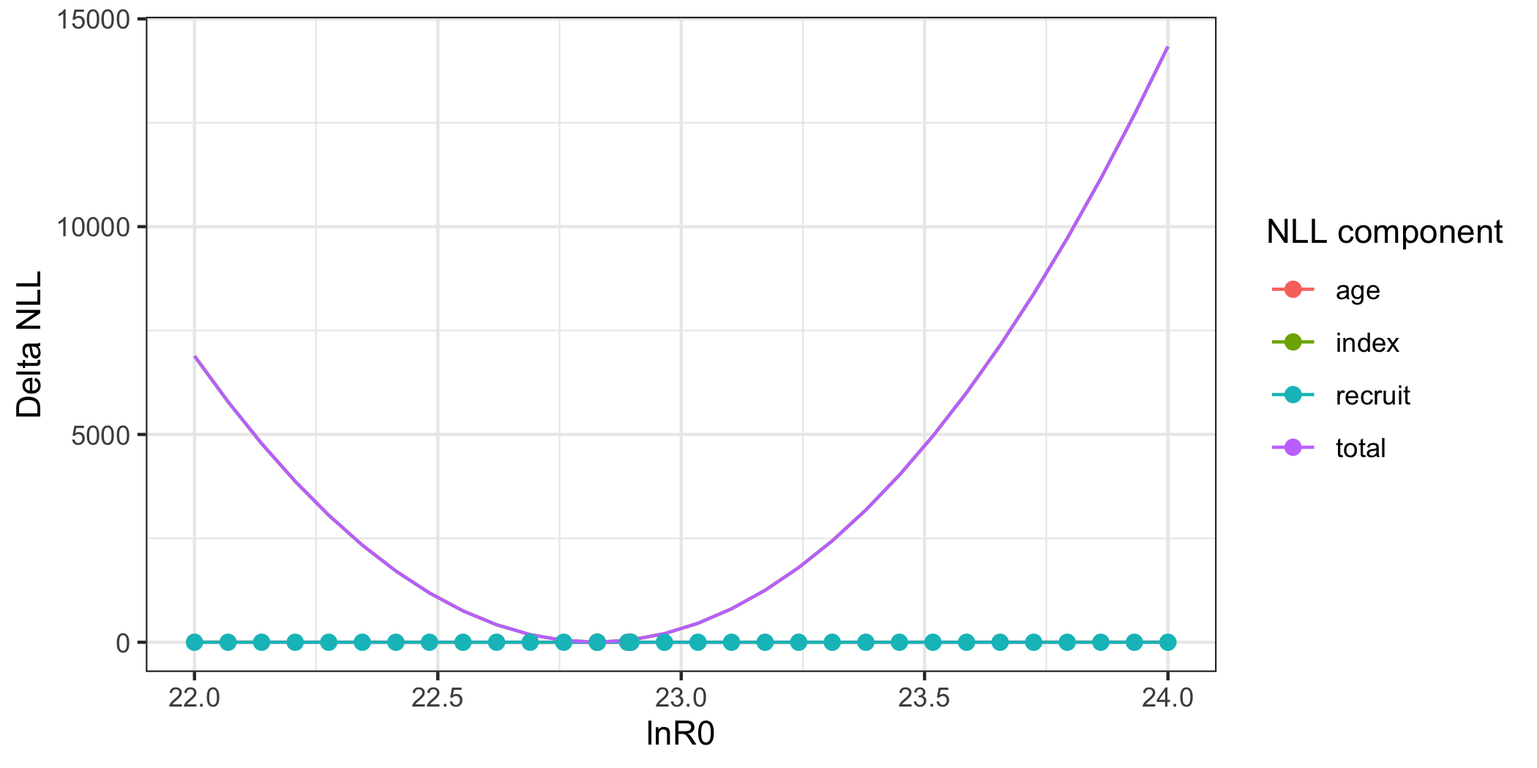
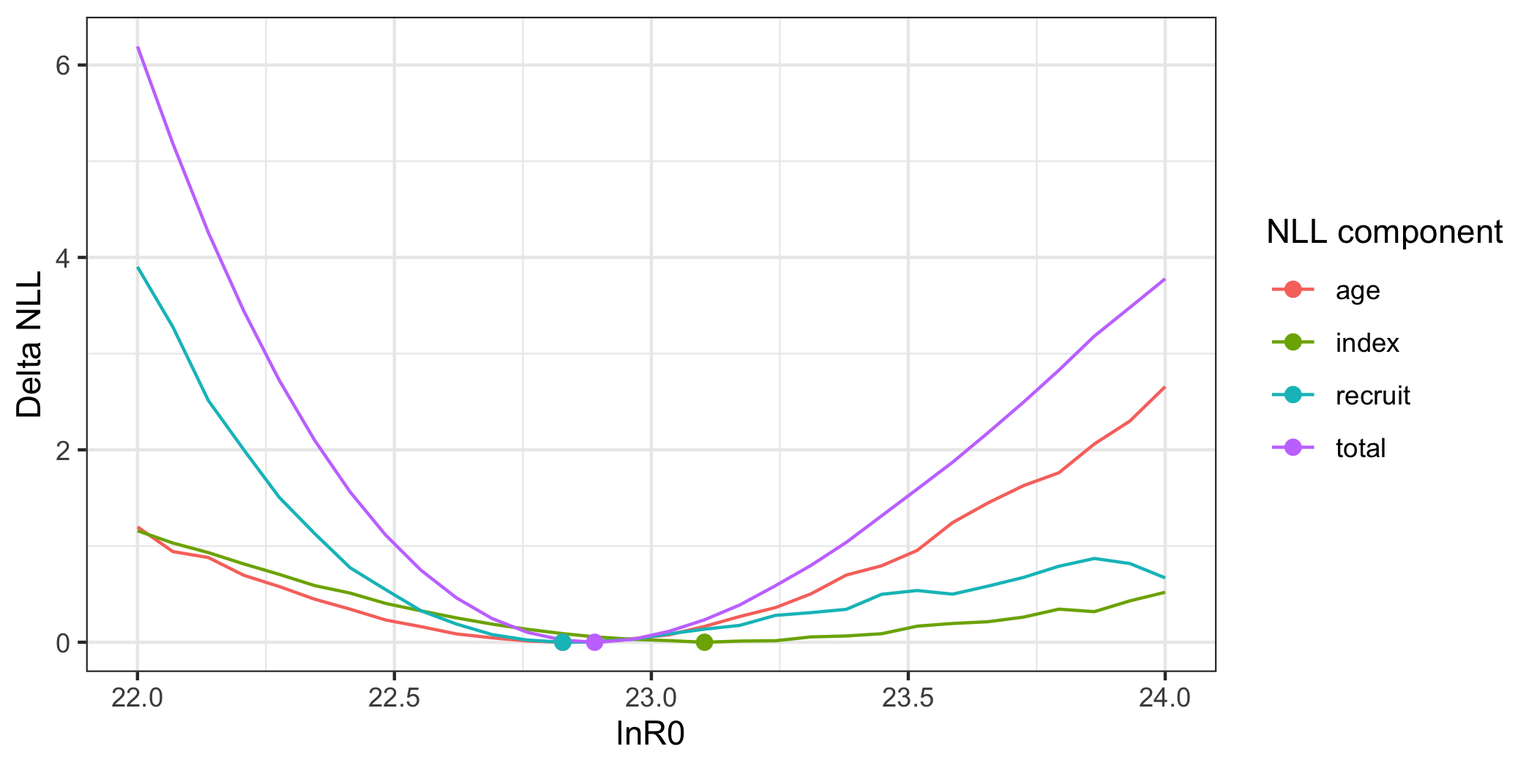
Built site for gh-pages

diff --git a/content/AFSC-GOA-pollock.html b/content/AFSC-GOA-pollock.html
@@ -290,7 +290,7 @@ pre > code.sourceCode > span > a:first-child::before { text-decoration: underlin
 <div class="cell-output cell-output-stdout">
 <pre><code>
 The downloaded binary packages are in
-    /var/folders/2s/h6hvv9ps03xgz_krkkstvq_r0000gn/T//Rtmpr8iFZ4/downloaded_packages</code></pre>
+    /var/folders/2s/h6hvv9ps03xgz_krkkstvq_r0000gn/T//RtmpobgKhk/downloaded_packages</code></pre>
 </div>
 <details class="code-fold">
 <summary>Code</summary>
@@ -302,10 +302,10 @@ The downloaded binary packages are in
 <div class="cell-output cell-output-stdout">
 <pre><code>
 The downloaded binary packages are in
-    /var/folders/2s/h6hvv9ps03xgz_krkkstvq_r0000gn/T//Rtmpr8iFZ4/downloaded_packages</code></pre>
+    /var/folders/2s/h6hvv9ps03xgz_krkkstvq_r0000gn/T//RtmpobgKhk/downloaded_packages</code></pre>
 </div>
 <div class="cell-output cell-output-stdout">
-<pre><code>* checking for file ‘/private/var/folders/2s/h6hvv9ps03xgz_krkkstvq_r0000gn/T/Rtmpr8iFZ4/remotes189179ae5b8e/NOAA-FIMS-FIMS-eca8095/DESCRIPTION’ ... OK
+<pre><code>* checking for file ‘/private/var/folders/2s/h6hvv9ps03xgz_krkkstvq_r0000gn/T/RtmpobgKhk/remotes188c6f12a4f5/NOAA-FIMS-FIMS-eca8095/DESCRIPTION’ ... OK
 * preparing ‘FIMS’:
 * checking DESCRIPTION meta-information ... OK
 * cleaning src
@@ -348,10 +348,10 @@ coda        (NA    -&gt; 0.19-4.1) [CRAN]</code></pre>
 <div class="cell-output cell-output-stdout">
 <pre><code>
 The downloaded binary packages are in
-    /var/folders/2s/h6hvv9ps03xgz_krkkstvq_r0000gn/T//Rtmpr8iFZ4/downloaded_packages</code></pre>
+    /var/folders/2s/h6hvv9ps03xgz_krkkstvq_r0000gn/T//RtmpobgKhk/downloaded_packages</code></pre>
 </div>
 <div class="cell-output cell-output-stdout">
-<pre><code>* checking for file ‘/private/var/folders/2s/h6hvv9ps03xgz_krkkstvq_r0000gn/T/Rtmpr8iFZ4/remotes1891705c3c5c/r4ss-r4ss-b2b4418/DESCRIPTION’ ... OK
+<pre><code>* checking for file ‘/private/var/folders/2s/h6hvv9ps03xgz_krkkstvq_r0000gn/T/RtmpobgKhk/remotes188c70c642fa/r4ss-r4ss-b2b4418/DESCRIPTION’ ... OK
 * preparing ‘r4ss’:
 * checking DESCRIPTION meta-information ... OK
 * checking for LF line-endings in source and make files and shell scripts
@@ -568,80 +568,67 @@ The downloaded binary packages are in
 <details class="code-fold">
 <summary>Code</summary>
 <div class="sourceCode cell-code" id="cb17"><pre class="sourceCode r code-with-copy"><code class="sourceCode r"><span id="cb17-1"><a href="#cb17-1" aria-hidden="true" tabindex="-1"></a><span class="do">## Try a likelihood profile</span></span>
-<span id="cb17-2"><a href="#cb17-2" aria-hidden="true" tabindex="-1"></a><span class="co"># </span><span class="al">TODO</span><span class="co">: Received the following note when running the code below:</span></span>
-<span id="cb17-3"><a href="#cb17-3" aria-hidden="true" tabindex="-1"></a><span class="co"># "Note that `getReportCovariance=FALSE` causes an error in `TMB::sdreport` when no ADREPORTed variables are present".</span></span>
-<span id="cb17-4"><a href="#cb17-4" aria-hidden="true" tabindex="-1"></a><span class="co"># Flag this for Cole to verify.</span></span>
-<span id="cb17-5"><a href="#cb17-5" aria-hidden="true" tabindex="-1"></a>i <span class="ot">&lt;-</span> <span class="dv">68</span> <span class="co"># this will break if model is changed at all</span></span>
-<span id="cb17-6"><a href="#cb17-6" aria-hidden="true" tabindex="-1"></a>map <span class="ot">&lt;-</span> parameters</span>
-<span id="cb17-7"><a href="#cb17-7" aria-hidden="true" tabindex="-1"></a>map<span class="sc">$</span>p[i] <span class="ot">&lt;-</span> <span class="cn">NA</span> <span class="co"># map off R0 specified below</span></span>
-<span id="cb17-8"><a href="#cb17-8" aria-hidden="true" tabindex="-1"></a>map<span class="sc">$</span>p <span class="ot">&lt;-</span> <span class="fu">as.factor</span>(map<span class="sc">$</span>p)</span>
-<span id="cb17-9"><a href="#cb17-9" aria-hidden="true" tabindex="-1"></a>xseq <span class="ot">&lt;-</span> <span class="fu">as.numeric</span>(<span class="fu">c</span>(opt<span class="sc">$</span>par[i],  <span class="fu">seq</span>(<span class="dv">22</span>,<span class="dv">24</span>, <span class="at">len=</span><span class="dv">30</span>)))</span>
-<span id="cb17-10"><a href="#cb17-10" aria-hidden="true" tabindex="-1"></a>res <span class="ot">&lt;-</span> <span class="fu">list</span>()</span>
-<span id="cb17-11"><a href="#cb17-11" aria-hidden="true" tabindex="-1"></a><span class="cf">for</span>(j <span class="cf">in</span> <span class="dv">1</span><span class="sc">:</span><span class="fu">length</span>(xseq)){</span>
-<span id="cb17-12"><a href="#cb17-12" aria-hidden="true" tabindex="-1"></a>  <span class="fu">print</span>(j)</span>
-<span id="cb17-13"><a href="#cb17-13" aria-hidden="true" tabindex="-1"></a>  parameters<span class="sc">$</span>p[i] <span class="ot">&lt;-</span> xseq[j]</span>
-<span id="cb17-14"><a href="#cb17-14" aria-hidden="true" tabindex="-1"></a>  obj2 <span class="ot">&lt;-</span> <span class="fu">MakeADFun</span>(<span class="at">data =</span> <span class="fu">list</span>(), parameters, <span class="at">DLL =</span> <span class="st">"FIMS"</span>, <span class="at">silent =</span> <span class="cn">TRUE</span>, <span class="at">map=</span>map)</span>
-<span id="cb17-15"><a href="#cb17-15" aria-hidden="true" tabindex="-1"></a>  opt2 <span class="ot">&lt;-</span> <span class="fu">with</span>(</span>
-<span id="cb17-16"><a href="#cb17-16" aria-hidden="true" tabindex="-1"></a>    obj,</span>
-<span id="cb17-17"><a href="#cb17-17" aria-hidden="true" tabindex="-1"></a>    stats<span class="sc">::</span><span class="fu">nlminb</span>(</span>
-<span id="cb17-18"><a href="#cb17-18" aria-hidden="true" tabindex="-1"></a>      <span class="at">start =</span> par,</span>
-<span id="cb17-19"><a href="#cb17-19" aria-hidden="true" tabindex="-1"></a>      <span class="at">objective =</span> fn,</span>
-<span id="cb17-20"><a href="#cb17-20" aria-hidden="true" tabindex="-1"></a>      <span class="at">gradient =</span> gr,</span>
-<span id="cb17-21"><a href="#cb17-21" aria-hidden="true" tabindex="-1"></a>      <span class="at">control =</span> <span class="fu">list</span>(</span>
-<span id="cb17-22"><a href="#cb17-22" aria-hidden="true" tabindex="-1"></a>        <span class="at">trace =</span> <span class="dv">0</span></span>
-<span id="cb17-23"><a href="#cb17-23" aria-hidden="true" tabindex="-1"></a>      )</span>
-<span id="cb17-24"><a href="#cb17-24" aria-hidden="true" tabindex="-1"></a>    )</span>
-<span id="cb17-25"><a href="#cb17-25" aria-hidden="true" tabindex="-1"></a>  )</span>
-<span id="cb17-26"><a href="#cb17-26" aria-hidden="true" tabindex="-1"></a>  out <span class="ot">&lt;-</span> obj2<span class="sc">$</span><span class="fu">report</span>(obj2<span class="sc">$</span>env<span class="sc">$</span>last.par.best)</span>
-<span id="cb17-27"><a href="#cb17-27" aria-hidden="true" tabindex="-1"></a>  nll_components <span class="ot">&lt;-</span> out<span class="sc">$</span>nll_components</span>
-<span id="cb17-28"><a href="#cb17-28" aria-hidden="true" tabindex="-1"></a>  index_nll <span class="ot">&lt;-</span> <span class="fu">sum</span>(nll_components[<span class="fu">seq</span>(<span class="dv">2</span>, <span class="fu">length</span>(nll_components), <span class="at">by =</span> <span class="dv">2</span>)])</span>
-<span id="cb17-29"><a href="#cb17-29" aria-hidden="true" tabindex="-1"></a>  age_comp_nll <span class="ot">&lt;-</span> <span class="fu">sum</span>(nll_components[<span class="fu">seq</span>(<span class="dv">3</span>, <span class="fu">length</span>(nll_components), <span class="at">by =</span> <span class="dv">2</span>)])</span>
-<span id="cb17-30"><a href="#cb17-30" aria-hidden="true" tabindex="-1"></a>  res[[j]] <span class="ot">&lt;-</span> <span class="fu">data.frame</span>(</span>
-<span id="cb17-31"><a href="#cb17-31" aria-hidden="true" tabindex="-1"></a>    <span class="at">j =</span> j, <span class="at">lnR0 =</span> xseq[j], <span class="at">total =</span> out<span class="sc">$</span>jnll, <span class="at">index =</span> index_nll,</span>
-<span id="cb17-32"><a href="#cb17-32" aria-hidden="true" tabindex="-1"></a>    <span class="at">age =</span> age_comp_nll, <span class="at">recruit =</span> out<span class="sc">$</span>nll_components[<span class="dv">1</span>], <span class="at">maxgrad =</span> <span class="fu">max</span>(<span class="fu">abs</span>(obj<span class="sc">$</span><span class="fu">gr</span>()))</span>
-<span id="cb17-33"><a href="#cb17-33" aria-hidden="true" tabindex="-1"></a>  )</span>
-<span id="cb17-34"><a href="#cb17-34" aria-hidden="true" tabindex="-1"></a>}</span>
-<span id="cb17-35"><a href="#cb17-35" aria-hidden="true" tabindex="-1"></a>res <span class="ot">&lt;-</span> <span class="fu">bind_rows</span>(res) <span class="sc">%&gt;%</span></span>
-<span id="cb17-36"><a href="#cb17-36" aria-hidden="true" tabindex="-1"></a>  <span class="fu">pivot_longer</span>( <span class="at">cols=</span><span class="fu">c</span>(total, index, age, recruit)) <span class="sc">%&gt;%</span></span>
-<span id="cb17-37"><a href="#cb17-37" aria-hidden="true" tabindex="-1"></a>  <span class="fu">group_by</span>(name) <span class="sc">%&gt;%</span> <span class="fu">mutate</span>(<span class="at">deltaNLL=</span>value<span class="sc">-</span><span class="fu">min</span>(value))</span>
-<span id="cb17-38"><a href="#cb17-38" aria-hidden="true" tabindex="-1"></a>g <span class="ot">&lt;-</span> <span class="fu">ggplot</span>(res, <span class="fu">aes</span>(lnR0, deltaNLL, <span class="at">color=</span>name)) <span class="sc">+</span> <span class="fu">geom_line</span>()</span>
-<span id="cb17-39"><a href="#cb17-39" aria-hidden="true" tabindex="-1"></a>g <span class="ot">&lt;-</span> g<span class="sc">+</span> <span class="fu">geom_point</span>(<span class="at">data=</span><span class="fu">filter</span>(res, deltaNLL<span class="sc">==</span><span class="dv">0</span>), <span class="at">size=</span><span class="dv">2</span>) <span class="sc">+</span></span>
-<span id="cb17-40"><a href="#cb17-40" aria-hidden="true" tabindex="-1"></a>  <span class="fu">labs</span>(<span class="at">y=</span><span class="st">'Delta NLL'</span>, <span class="at">color=</span><span class="st">'NLL component'</span>)</span>
-<span id="cb17-41"><a href="#cb17-41" aria-hidden="true" tabindex="-1"></a><span class="fu">ggsave</span>(<span class="st">'figures/AFSC_PK_like_profile_R0.png'</span>, g, <span class="at">width=</span><span class="dv">7</span>, <span class="at">height=</span><span class="fl">3.5</span>)</span>
-<span id="cb17-42"><a href="#cb17-42" aria-hidden="true" tabindex="-1"></a></span>
-<span id="cb17-43"><a href="#cb17-43" aria-hidden="true" tabindex="-1"></a></span>
-<span id="cb17-44"><a href="#cb17-44" aria-hidden="true" tabindex="-1"></a></span>
-<span id="cb17-45"><a href="#cb17-45" aria-hidden="true" tabindex="-1"></a><span class="do">## ## Try Bayesian</span></span>
-<span id="cb17-46"><a href="#cb17-46" aria-hidden="true" tabindex="-1"></a><span class="do">## library(tmbstan)</span></span>
-<span id="cb17-47"><a href="#cb17-47" aria-hidden="true" tabindex="-1"></a><span class="do">## library(shinystan)</span></span>
-<span id="cb17-48"><a href="#cb17-48" aria-hidden="true" tabindex="-1"></a><span class="do">## ## Some paraemters wandering off to Inf so fix those (need</span></span>
-<span id="cb17-49"><a href="#cb17-49" aria-hidden="true" tabindex="-1"></a><span class="do">## ## priors). Needs a ton of work but is proof of concept. Major</span></span>
-<span id="cb17-50"><a href="#cb17-50" aria-hidden="true" tabindex="-1"></a><span class="do">## ## problem is parallel fails.</span></span>
-<span id="cb17-51"><a href="#cb17-51" aria-hidden="true" tabindex="-1"></a><span class="do">## map &lt;- parameters</span></span>
-<span id="cb17-52"><a href="#cb17-52" aria-hidden="true" tabindex="-1"></a><span class="do">## ## parameters$p[65:66]</span></span>
-<span id="cb17-53"><a href="#cb17-53" aria-hidden="true" tabindex="-1"></a><span class="do">## map$p[65:66] &lt;- NA # map off R0 specified below</span></span>
-<span id="cb17-54"><a href="#cb17-54" aria-hidden="true" tabindex="-1"></a><span class="do">## map$p &lt;- as.factor(map$p)</span></span>
-<span id="cb17-55"><a href="#cb17-55" aria-hidden="true" tabindex="-1"></a><span class="do">## obj3 &lt;- MakeADFun(data = list(), parameters, DLL = "FIMS", silent=TRUE, map=map)</span></span>
-<span id="cb17-56"><a href="#cb17-56" aria-hidden="true" tabindex="-1"></a><span class="do">## opt3 &lt;- TMBhelper::fit_tmb(obj3, getsd=FALSE, newtonsteps=0, control=list(trace=0))</span></span>
-<span id="cb17-57"><a href="#cb17-57" aria-hidden="true" tabindex="-1"></a><span class="do">## ## Fails when trying to do this in parallel unfortunately</span></span>
-<span id="cb17-58"><a href="#cb17-58" aria-hidden="true" tabindex="-1"></a><span class="do">## fit &lt;- tmbstan(obj3, chains=1, cores=1, open_progress=FALSE,</span></span>
-<span id="cb17-59"><a href="#cb17-59" aria-hidden="true" tabindex="-1"></a><span class="do">##                init='last.par.best', control=list(max_treedepth=10))</span></span>
-<span id="cb17-60"><a href="#cb17-60" aria-hidden="true" tabindex="-1"></a><span class="do">## launch_shinystan(fit)</span></span>
-<span id="cb17-61"><a href="#cb17-61" aria-hidden="true" tabindex="-1"></a><span class="do">## df &lt;- as.data.frame(fit)</span></span>
-<span id="cb17-62"><a href="#cb17-62" aria-hidden="true" tabindex="-1"></a><span class="do">## df &lt;- df[,-ncol(df)] # drop lp__</span></span>
-<span id="cb17-63"><a href="#cb17-63" aria-hidden="true" tabindex="-1"></a><span class="do">## ## for each posterior draw, report to get SSB</span></span>
-<span id="cb17-64"><a href="#cb17-64" aria-hidden="true" tabindex="-1"></a><span class="do">## postreps &lt;- list()</span></span>
-<span id="cb17-65"><a href="#cb17-65" aria-hidden="true" tabindex="-1"></a><span class="do">## for(ii in 1:nrow(df)){</span></span>
-<span id="cb17-66"><a href="#cb17-66" aria-hidden="true" tabindex="-1"></a><span class="do">##   if(ii %% 10==0) print(ii)</span></span>
-<span id="cb17-67"><a href="#cb17-67" aria-hidden="true" tabindex="-1"></a><span class="do">##   postreps[[ii]] &lt;- obj3$rep(df[ii,])</span></span>
-<span id="cb17-68"><a href="#cb17-68" aria-hidden="true" tabindex="-1"></a><span class="do">## }</span></span>
-<span id="cb17-69"><a href="#cb17-69" aria-hidden="true" tabindex="-1"></a><span class="do">## ssbpost &lt;- lapply(postreps, function(x) data.frame(year=years, ssb=x$ssb[[1]][-55]))%&gt;%</span></span>
-<span id="cb17-70"><a href="#cb17-70" aria-hidden="true" tabindex="-1"></a><span class="do">##   bind_rows %&gt;% mutate(rep=rep(1:nrow(df), each=54))</span></span>
-<span id="cb17-71"><a href="#cb17-71" aria-hidden="true" tabindex="-1"></a><span class="do">## saveRDS(ssbpost, file='pk_SSB_posteriors.RDS')</span></span>
-<span id="cb17-72"><a href="#cb17-72" aria-hidden="true" tabindex="-1"></a>ssbpost <span class="ot">&lt;-</span> <span class="fu">readRDS</span>(<span class="st">'data_files/pk_pollock_SSB_posteriors.RDS'</span>)</span>
-<span id="cb17-73"><a href="#cb17-73" aria-hidden="true" tabindex="-1"></a>g <span class="ot">&lt;-</span> <span class="fu">ggplot</span>(ssbpost, <span class="fu">aes</span>(year, ssb<span class="sc">/</span><span class="fl">1e9</span>, <span class="at">group=</span>rep)) <span class="sc">+</span> <span class="fu">geom_line</span>(<span class="at">alpha=</span>.<span class="dv">1</span>) <span class="sc">+</span></span>
-<span id="cb17-74"><a href="#cb17-74" aria-hidden="true" tabindex="-1"></a>  <span class="fu">ylim</span>(<span class="dv">0</span>,<span class="cn">NA</span>) <span class="sc">+</span> <span class="fu">labs</span>(<span class="at">x=</span><span class="cn">NULL</span>, <span class="at">y=</span><span class="st">'SSB (M t)'</span>, <span class="at">title=</span><span class="st">'Posterior demo (unconverged!)'</span>)</span>
-<span id="cb17-75"><a href="#cb17-75" aria-hidden="true" tabindex="-1"></a><span class="fu">ggsave</span>(<span class="st">'figures/AFSC_PK_ssb_posterior.png'</span>, g, <span class="at">width=</span><span class="dv">7</span>, <span class="at">height=</span><span class="dv">4</span>, <span class="at">units=</span><span class="st">'in'</span>)</span></code><button title="Copy to Clipboard" class="code-copy-button"><i class="bi"></i></button></pre></div>
+<span id="cb17-2"><a href="#cb17-2" aria-hidden="true" tabindex="-1"></a>i <span class="ot">&lt;-</span> <span class="dv">68</span> <span class="co"># this will break if model is changed at all</span></span>
+<span id="cb17-3"><a href="#cb17-3" aria-hidden="true" tabindex="-1"></a>map <span class="ot">&lt;-</span> parameters</span>
+<span id="cb17-4"><a href="#cb17-4" aria-hidden="true" tabindex="-1"></a>map<span class="sc">$</span>p[i] <span class="ot">&lt;-</span> <span class="cn">NA</span> <span class="co"># map off R0 specified below</span></span>
+<span id="cb17-5"><a href="#cb17-5" aria-hidden="true" tabindex="-1"></a>map<span class="sc">$</span>p <span class="ot">&lt;-</span> <span class="fu">as.factor</span>(map<span class="sc">$</span>p)</span>
+<span id="cb17-6"><a href="#cb17-6" aria-hidden="true" tabindex="-1"></a>xseq <span class="ot">&lt;-</span> <span class="fu">as.numeric</span>(<span class="fu">c</span>(opt<span class="sc">$</span>par[i],  <span class="fu">seq</span>(<span class="dv">22</span>,<span class="dv">24</span>, <span class="at">len=</span><span class="dv">30</span>)))</span>
+<span id="cb17-7"><a href="#cb17-7" aria-hidden="true" tabindex="-1"></a>res <span class="ot">&lt;-</span> <span class="fu">list</span>()</span>
+<span id="cb17-8"><a href="#cb17-8" aria-hidden="true" tabindex="-1"></a><span class="cf">for</span>(j <span class="cf">in</span> <span class="dv">1</span><span class="sc">:</span><span class="fu">length</span>(xseq)){</span>
+<span id="cb17-9"><a href="#cb17-9" aria-hidden="true" tabindex="-1"></a>  <span class="fu">print</span>(j)</span>
+<span id="cb17-10"><a href="#cb17-10" aria-hidden="true" tabindex="-1"></a>  parameters<span class="sc">$</span>p[i] <span class="ot">&lt;-</span> xseq[j]</span>
+<span id="cb17-11"><a href="#cb17-11" aria-hidden="true" tabindex="-1"></a>  obj2 <span class="ot">&lt;-</span> <span class="fu">MakeADFun</span>(<span class="at">data =</span> <span class="fu">list</span>(), parameters, <span class="at">DLL =</span> <span class="st">"FIMS"</span>, <span class="at">silent =</span> <span class="cn">TRUE</span>, <span class="at">map=</span>map)</span>
+<span id="cb17-12"><a href="#cb17-12" aria-hidden="true" tabindex="-1"></a>  opt2 <span class="ot">&lt;-</span> <span class="fu">with</span>(obj2, <span class="fu">nlminb</span>(par,fn,gr))</span>
+<span id="cb17-13"><a href="#cb17-13" aria-hidden="true" tabindex="-1"></a>  out <span class="ot">&lt;-</span> obj2<span class="sc">$</span><span class="fu">report</span>(obj2<span class="sc">$</span>env<span class="sc">$</span>last.par.best)</span>
+<span id="cb17-14"><a href="#cb17-14" aria-hidden="true" tabindex="-1"></a>  nll_components <span class="ot">&lt;-</span> out<span class="sc">$</span>nll_components</span>
+<span id="cb17-15"><a href="#cb17-15" aria-hidden="true" tabindex="-1"></a>  index_nll <span class="ot">&lt;-</span> <span class="fu">sum</span>(nll_components[<span class="fu">seq</span>(<span class="dv">2</span>, <span class="fu">length</span>(nll_components), <span class="at">by =</span> <span class="dv">2</span>)])</span>
+<span id="cb17-16"><a href="#cb17-16" aria-hidden="true" tabindex="-1"></a>  age_comp_nll <span class="ot">&lt;-</span> <span class="fu">sum</span>(nll_components[<span class="fu">seq</span>(<span class="dv">3</span>, <span class="fu">length</span>(nll_components), <span class="at">by =</span> <span class="dv">2</span>)])</span>
+<span id="cb17-17"><a href="#cb17-17" aria-hidden="true" tabindex="-1"></a>  res[[j]] <span class="ot">&lt;-</span> <span class="fu">data.frame</span>(</span>
+<span id="cb17-18"><a href="#cb17-18" aria-hidden="true" tabindex="-1"></a>    <span class="at">j =</span> j, <span class="at">lnR0 =</span> xseq[j], <span class="at">total =</span> out<span class="sc">$</span>jnll, <span class="at">index =</span> index_nll,</span>
+<span id="cb17-19"><a href="#cb17-19" aria-hidden="true" tabindex="-1"></a>    <span class="at">age =</span> age_comp_nll, <span class="at">recruit =</span> out<span class="sc">$</span>nll_components[<span class="dv">1</span>], <span class="at">maxgrad =</span> <span class="fu">max</span>(<span class="fu">abs</span>(obj<span class="sc">$</span><span class="fu">gr</span>()))</span>
+<span id="cb17-20"><a href="#cb17-20" aria-hidden="true" tabindex="-1"></a>  )</span>
+<span id="cb17-21"><a href="#cb17-21" aria-hidden="true" tabindex="-1"></a>}</span>
+<span id="cb17-22"><a href="#cb17-22" aria-hidden="true" tabindex="-1"></a>res <span class="ot">&lt;-</span> <span class="fu">bind_rows</span>(res) <span class="sc">%&gt;%</span></span>
+<span id="cb17-23"><a href="#cb17-23" aria-hidden="true" tabindex="-1"></a>  <span class="fu">pivot_longer</span>( <span class="at">cols=</span><span class="fu">c</span>(total, index, age, recruit)) <span class="sc">%&gt;%</span></span>
+<span id="cb17-24"><a href="#cb17-24" aria-hidden="true" tabindex="-1"></a>  <span class="fu">group_by</span>(name) <span class="sc">%&gt;%</span> <span class="fu">mutate</span>(<span class="at">deltaNLL=</span>value<span class="sc">-</span><span class="fu">min</span>(value))</span>
+<span id="cb17-25"><a href="#cb17-25" aria-hidden="true" tabindex="-1"></a>g <span class="ot">&lt;-</span> <span class="fu">ggplot</span>(res, <span class="fu">aes</span>(lnR0, deltaNLL, <span class="at">color=</span>name)) <span class="sc">+</span> <span class="fu">geom_line</span>()</span>
+<span id="cb17-26"><a href="#cb17-26" aria-hidden="true" tabindex="-1"></a>g <span class="ot">&lt;-</span> g<span class="sc">+</span> <span class="fu">geom_point</span>(<span class="at">data=</span><span class="fu">filter</span>(res, deltaNLL<span class="sc">==</span><span class="dv">0</span>), <span class="at">size=</span><span class="dv">2</span>) <span class="sc">+</span></span>
+<span id="cb17-27"><a href="#cb17-27" aria-hidden="true" tabindex="-1"></a>  <span class="fu">labs</span>(<span class="at">y=</span><span class="st">'Delta NLL'</span>, <span class="at">color=</span><span class="st">'NLL component'</span>)</span>
+<span id="cb17-28"><a href="#cb17-28" aria-hidden="true" tabindex="-1"></a><span class="fu">ggsave</span>(<span class="st">'figures/AFSC_PK_like_profile_R0.png'</span>, g, <span class="at">width=</span><span class="dv">7</span>, <span class="at">height=</span><span class="fl">3.5</span>)</span>
+<span id="cb17-29"><a href="#cb17-29" aria-hidden="true" tabindex="-1"></a></span>
+<span id="cb17-30"><a href="#cb17-30" aria-hidden="true" tabindex="-1"></a></span>
+<span id="cb17-31"><a href="#cb17-31" aria-hidden="true" tabindex="-1"></a></span>
+<span id="cb17-32"><a href="#cb17-32" aria-hidden="true" tabindex="-1"></a><span class="do">## ## Try Bayesian</span></span>
+<span id="cb17-33"><a href="#cb17-33" aria-hidden="true" tabindex="-1"></a><span class="do">## library(tmbstan)</span></span>
+<span id="cb17-34"><a href="#cb17-34" aria-hidden="true" tabindex="-1"></a><span class="do">## library(shinystan)</span></span>
+<span id="cb17-35"><a href="#cb17-35" aria-hidden="true" tabindex="-1"></a><span class="do">## ## Some paraemters wandering off to Inf so fix those (need</span></span>
+<span id="cb17-36"><a href="#cb17-36" aria-hidden="true" tabindex="-1"></a><span class="do">## ## priors). Needs a ton of work but is proof of concept. Major</span></span>
+<span id="cb17-37"><a href="#cb17-37" aria-hidden="true" tabindex="-1"></a><span class="do">## ## problem is parallel fails.</span></span>
+<span id="cb17-38"><a href="#cb17-38" aria-hidden="true" tabindex="-1"></a><span class="do">## map &lt;- parameters</span></span>
+<span id="cb17-39"><a href="#cb17-39" aria-hidden="true" tabindex="-1"></a><span class="do">## ## parameters$p[65:66]</span></span>
+<span id="cb17-40"><a href="#cb17-40" aria-hidden="true" tabindex="-1"></a><span class="do">## map$p[65:66] &lt;- NA # map off R0 specified below</span></span>
+<span id="cb17-41"><a href="#cb17-41" aria-hidden="true" tabindex="-1"></a><span class="do">## map$p &lt;- as.factor(map$p)</span></span>
+<span id="cb17-42"><a href="#cb17-42" aria-hidden="true" tabindex="-1"></a><span class="do">## obj3 &lt;- MakeADFun(data = list(), parameters, DLL = "FIMS", silent=TRUE, map=map)</span></span>
+<span id="cb17-43"><a href="#cb17-43" aria-hidden="true" tabindex="-1"></a><span class="do">## opt3 &lt;- TMBhelper::fit_tmb(obj3, getsd=FALSE, newtonsteps=0, control=list(trace=0))</span></span>
+<span id="cb17-44"><a href="#cb17-44" aria-hidden="true" tabindex="-1"></a><span class="do">## ## Fails when trying to do this in parallel unfortunately</span></span>
+<span id="cb17-45"><a href="#cb17-45" aria-hidden="true" tabindex="-1"></a><span class="do">## fit &lt;- tmbstan(obj3, chains=1, cores=1, open_progress=FALSE,</span></span>
+<span id="cb17-46"><a href="#cb17-46" aria-hidden="true" tabindex="-1"></a><span class="do">##                init='last.par.best', control=list(max_treedepth=10))</span></span>
+<span id="cb17-47"><a href="#cb17-47" aria-hidden="true" tabindex="-1"></a><span class="do">## launch_shinystan(fit)</span></span>
+<span id="cb17-48"><a href="#cb17-48" aria-hidden="true" tabindex="-1"></a><span class="do">## df &lt;- as.data.frame(fit)</span></span>
+<span id="cb17-49"><a href="#cb17-49" aria-hidden="true" tabindex="-1"></a><span class="do">## df &lt;- df[,-ncol(df)] # drop lp__</span></span>
+<span id="cb17-50"><a href="#cb17-50" aria-hidden="true" tabindex="-1"></a><span class="do">## ## for each posterior draw, report to get SSB</span></span>
+<span id="cb17-51"><a href="#cb17-51" aria-hidden="true" tabindex="-1"></a><span class="do">## postreps &lt;- list()</span></span>
+<span id="cb17-52"><a href="#cb17-52" aria-hidden="true" tabindex="-1"></a><span class="do">## for(ii in 1:nrow(df)){</span></span>
+<span id="cb17-53"><a href="#cb17-53" aria-hidden="true" tabindex="-1"></a><span class="do">##   if(ii %% 10==0) print(ii)</span></span>
+<span id="cb17-54"><a href="#cb17-54" aria-hidden="true" tabindex="-1"></a><span class="do">##   postreps[[ii]] &lt;- obj3$rep(df[ii,])</span></span>
+<span id="cb17-55"><a href="#cb17-55" aria-hidden="true" tabindex="-1"></a><span class="do">## }</span></span>
+<span id="cb17-56"><a href="#cb17-56" aria-hidden="true" tabindex="-1"></a><span class="do">## ssbpost &lt;- lapply(postreps, function(x) data.frame(year=years, ssb=x$ssb[[1]][-55]))%&gt;%</span></span>
+<span id="cb17-57"><a href="#cb17-57" aria-hidden="true" tabindex="-1"></a><span class="do">##   bind_rows %&gt;% mutate(rep=rep(1:nrow(df), each=54))</span></span>
+<span id="cb17-58"><a href="#cb17-58" aria-hidden="true" tabindex="-1"></a><span class="do">## saveRDS(ssbpost, file='pk_SSB_posteriors.RDS')</span></span>
+<span id="cb17-59"><a href="#cb17-59" aria-hidden="true" tabindex="-1"></a>ssbpost <span class="ot">&lt;-</span> <span class="fu">readRDS</span>(<span class="st">'data_files/pk_pollock_SSB_posteriors.RDS'</span>)</span>
+<span id="cb17-60"><a href="#cb17-60" aria-hidden="true" tabindex="-1"></a>g <span class="ot">&lt;-</span> <span class="fu">ggplot</span>(ssbpost, <span class="fu">aes</span>(year, ssb<span class="sc">/</span><span class="fl">1e9</span>, <span class="at">group=</span>rep)) <span class="sc">+</span> <span class="fu">geom_line</span>(<span class="at">alpha=</span>.<span class="dv">1</span>) <span class="sc">+</span></span>
+<span id="cb17-61"><a href="#cb17-61" aria-hidden="true" tabindex="-1"></a>  <span class="fu">ylim</span>(<span class="dv">0</span>,<span class="cn">NA</span>) <span class="sc">+</span> <span class="fu">labs</span>(<span class="at">x=</span><span class="cn">NULL</span>, <span class="at">y=</span><span class="st">'SSB (M t)'</span>, <span class="at">title=</span><span class="st">'Posterior demo (unconverged!)'</span>)</span>
+<span id="cb17-62"><a href="#cb17-62" aria-hidden="true" tabindex="-1"></a><span class="fu">ggsave</span>(<span class="st">'figures/AFSC_PK_ssb_posterior.png'</span>, g, <span class="at">width=</span><span class="dv">7</span>, <span class="at">height=</span><span class="dv">4</span>, <span class="at">units=</span><span class="st">'in'</span>)</span></code><button title="Copy to Clipboard" class="code-copy-button"><i class="bi"></i></button></pre></div>
 </details>
 </div>
 </section>
@@ -1095,7 +1082,7 @@ The downloaded binary packages are in
 ✔ Finished optimization
 ✔ Finished sdreport
 ℹ FIMS model version: 0.3.0.1
-ℹ Total run time was 2.3314 seconds
+ℹ Total run time was 2.27951 seconds
 ℹ Number of parameters: total=121, fixed_effects=121, and random_effects=0
 ℹ Maximum gradient= 0.00021
 ℹ Negative log likelihood (NLL):
@@ -1116,10 +1103,9 @@ The downloaded binary packages are in
 <summary>Code</summary>
 <div class="sourceCode cell-code" id="cb26"><pre class="sourceCode r code-with-copy"><code class="sourceCode r"><span id="cb26-1"><a href="#cb26-1" aria-hidden="true" tabindex="-1"></a>rep2_with_wrappers <span class="ot">&lt;-</span> fit<span class="sc">@</span>report</span>
 <span id="cb26-2"><a href="#cb26-2" aria-hidden="true" tabindex="-1"></a></span>
-<span id="cb26-3"><a href="#cb26-3" aria-hidden="true" tabindex="-1"></a><span class="co"># </span><span class="al">TODO</span><span class="co">: Review differences between rep2 and rep2_with_wrappers. </span></span>
-<span id="cb26-4"><a href="#cb26-4" aria-hidden="true" tabindex="-1"></a><span class="co"># Flag this for Cole to verify.</span></span>
-<span id="cb26-5"><a href="#cb26-5" aria-hidden="true" tabindex="-1"></a><span class="co"># cbind(rep2$ssb[[1]], rep2_with_wrappers$ssb[[1]])</span></span>
-<span id="cb26-6"><a href="#cb26-6" aria-hidden="true" tabindex="-1"></a><span class="co"># cbind(rep2$nll_components, rep2_with_wrappers$nll_components)</span></span></code><button title="Copy to Clipboard" class="code-copy-button"><i class="bi"></i></button></pre></div>
+<span id="cb26-3"><a href="#cb26-3" aria-hidden="true" tabindex="-1"></a><span class="co"># slight differences due to different optimizer settings</span></span>
+<span id="cb26-4"><a href="#cb26-4" aria-hidden="true" tabindex="-1"></a><span class="co"># cbind(rep2$ssb[[1]], rep2_with_wrappers$ssb[[1]])</span></span>
+<span id="cb26-5"><a href="#cb26-5" aria-hidden="true" tabindex="-1"></a><span class="co"># cbind(rep2$nll_components, rep2_with_wrappers$nll_components)</span></span></code><button title="Copy to Clipboard" class="code-copy-button"><i class="bi"></i></button></pre></div>
 </details>
 </div>
 </section>

diff --git a/content/NWFSC-petrale.html b/content/NWFSC-petrale.html
@@ -578,7 +578,7 @@ pre > code.sourceCode > span > a:first-child::before { text-decoration: underlin
 </div>
 <div class="cell-output cell-output-stderr">
 <pre><code>ℹ FIMS model version: 0.3.0.1
-ℹ Total run time was 14.16834 seconds
+ℹ Total run time was 14.15593 seconds
 ℹ Number of parameters: total=149, fixed_effects=149, and random_effects=0
 ℹ Maximum gradient= 0.00394
 ℹ Negative log likelihood (NLL):
@@ -605,7 +605,7 @@ pre > code.sourceCode > span > a:first-child::before { text-decoration: underlin
 <span id="cb13-11"><a href="#cb13-11"></a>  .. ..$ hessian : logi FALSE</span>
 <span id="cb13-12"><a href="#cb13-12"></a>  .. ..$ method  : chr "BFGS"</span>
 <span id="cb13-13"><a href="#cb13-13"></a>  .. ..$ retape  :function (set.defaults = TRUE)  </span>
-<span id="cb13-14"><a href="#cb13-14"></a>  .. ..$ env     :&lt;environment: 0x11965d2a0&gt; </span>
+<span id="cb13-14"><a href="#cb13-14"></a>  .. ..$ env     :&lt;environment: 0x12a977e20&gt; </span>
 <span id="cb13-15"><a href="#cb13-15"></a>  .. ..$ report  :function (par = last.par)  </span>
 <span id="cb13-16"><a href="#cb13-16"></a>  .. ..$ simulate:function (par = last.par, complete = FALSE)  </span>
 <span id="cb13-17"><a href="#cb13-17"></a>  ..@ opt                 :List of 6</span>
@@ -673,7 +673,7 @@ pre > code.sourceCode > span > a:first-child::before { text-decoration: underlin
 <span id="cb13-79"><a href="#cb13-79"></a>  .. .. .. ..$ : chr [1:149] "selectivity.inflection_point.1.0" "selectivity.slope.1.0" "selectivity.inflection_point.2.0" "selectivity.slope.2.0" ...</span>
 <span id="cb13-80"><a href="#cb13-80"></a>  .. ..$ pdHess        : logi FALSE</span>
 <span id="cb13-81"><a href="#cb13-81"></a>  .. ..$ gradient.fixed: num [1, 1:149] -5.40e-04 -3.94e-03 -7.85e-05 -3.67e-05 -6.34e-05 ...</span>
-<span id="cb13-82"><a href="#cb13-82"></a>  .. ..$ env           :&lt;environment: 0x143f7d938&gt; </span>
+<span id="cb13-82"><a href="#cb13-82"></a>  .. ..$ env           :&lt;environment: 0x10dff83a0&gt; </span>
 <span id="cb13-83"><a href="#cb13-83"></a>  .. ..- attr(*, "class")= chr "sdreport"</span>
 <span id="cb13-84"><a href="#cb13-84"></a>  ..@ estimates           : tibble [11,853 × 3] (S3: tbl_df/tbl/data.frame)</span>
 <span id="cb13-85"><a href="#cb13-85"></a>  .. ..$ name : chr [1:11853] "selectivity.inflection_point.1.0" "selectivity.slope.1.0" "selectivity.inflection_point.2.0" "selectivity.slope.2.0" ...</span>
@@ -681,7 +681,7 @@ pre > code.sourceCode > span > a:first-child::before { text-decoration: underlin
 <span id="cb13-87"><a href="#cb13-87"></a>  .. ..$ se   : num [1:11853] 0.06958 0.00893 0.03576 0.07187 0.02158 ...</span>
 <span id="cb13-88"><a href="#cb13-88"></a>  ..@ number_of_parameters: Named int [1:3] 149 149 0</span>
 <span id="cb13-89"><a href="#cb13-89"></a>  .. ..- attr(*, "names")= chr [1:3] "total" "fixed_effects" "random_effects"</span>
-<span id="cb13-90"><a href="#cb13-90"></a>  ..@ timing              : 'difftime' Named num [1:3] 1.29132318496704 12.8743710517883 14.1683371067047</span>
+<span id="cb13-90"><a href="#cb13-90"></a>  ..@ timing              : 'difftime' Named num [1:3] 1.2950758934021 12.858204126358 14.1559348106384</span>
 <span id="cb13-91"><a href="#cb13-91"></a>  .. ..- attr(*, "names")= chr [1:3] "time_optimization" "time_sdreport" "time_total"</span>
 <span id="cb13-92"><a href="#cb13-92"></a>  .. ..- attr(*, "units")= Named chr "secs"</span>
 <span id="cb13-93"><a href="#cb13-93"></a>  .. .. ..- attr(*, "names")= chr "time_optimization"</span>

diff --git a/content/PIFSC-opakapaka.html b/content/PIFSC-opakapaka.html
@@ -574,7 +574,7 @@ pre > code.sourceCode > span > a:first-child::before { text-decoration: underlin
 ✔ Finished optimization
 ✔ Finished sdreport
 ℹ FIMS model version: 0.3.0.1
-ℹ Total run time was 39.11758 seconds
+ℹ Total run time was 46.22396 seconds
 ℹ Number of parameters: total=227, fixed_effects=227, and random_effects=0
 ℹ Maximum gradient= 0.00035
 ℹ Negative log likelihood (NLL):
@@ -597,7 +597,7 @@ pre > code.sourceCode > span > a:first-child::before { text-decoration: underlin
 <span id="cb10-11"><a href="#cb10-11"></a>  .. ..$ hessian : logi FALSE</span>
 <span id="cb10-12"><a href="#cb10-12"></a>  .. ..$ method  : chr "BFGS"</span>
 <span id="cb10-13"><a href="#cb10-13"></a>  .. ..$ retape  :function (set.defaults = TRUE)  </span>
-<span id="cb10-14"><a href="#cb10-14"></a>  .. ..$ env     :&lt;environment: 0x12970b6a0&gt; </span>
+<span id="cb10-14"><a href="#cb10-14"></a>  .. ..$ env     :&lt;environment: 0x126a906a0&gt; </span>
 <span id="cb10-15"><a href="#cb10-15"></a>  .. ..$ report  :function (par = last.par)  </span>
 <span id="cb10-16"><a href="#cb10-16"></a>  .. ..$ simulate:function (par = last.par, complete = FALSE)  </span>
 <span id="cb10-17"><a href="#cb10-17"></a>  ..@ opt                 :List of 6</span>
@@ -683,7 +683,7 @@ pre > code.sourceCode > span > a:first-child::before { text-decoration: underlin
 <span id="cb10-97"><a href="#cb10-97"></a>  .. .. .. ..$ : chr [1:227] "log_Fmort" "log_Fmort" "log_Fmort" "log_Fmort" ...</span>
 <span id="cb10-98"><a href="#cb10-98"></a>  .. ..$ pdHess        : logi TRUE</span>
 <span id="cb10-99"><a href="#cb10-99"></a>  .. ..$ gradient.fixed: num [1, 1:227] 3.65e-07 6.77e-07 7.45e-07 1.78e-06 -3.78e-06 ...</span>
-<span id="cb10-100"><a href="#cb10-100"></a>  .. ..$ env           :&lt;environment: 0x13977fd98&gt; </span>
+<span id="cb10-100"><a href="#cb10-100"></a>  .. ..$ env           :&lt;environment: 0x143a72398&gt; </span>
 <span id="cb10-101"><a href="#cb10-101"></a>  .. ..- attr(*, "class")= chr "sdreport"</span>
 <span id="cb10-102"><a href="#cb10-102"></a>  ..@ estimates           : tibble [17,803 × 3] (S3: tbl_df/tbl/data.frame)</span>
 <span id="cb10-103"><a href="#cb10-103"></a>  .. ..$ name : chr [1:17803] "log_Fmort" "log_Fmort" "log_Fmort" "log_Fmort" ...</span>
@@ -691,7 +691,7 @@ pre > code.sourceCode > span > a:first-child::before { text-decoration: underlin
 <span id="cb10-105"><a href="#cb10-105"></a>  .. ..$ se   : num [1:17803] 0.01 0.01 0.0104 0.0115 0.0133 ...</span>
 <span id="cb10-106"><a href="#cb10-106"></a>  ..@ number_of_parameters: Named int [1:3] 227 227 0</span>
 <span id="cb10-107"><a href="#cb10-107"></a>  .. ..- attr(*, "names")= chr [1:3] "total" "fixed_effects" "random_effects"</span>
-<span id="cb10-108"><a href="#cb10-108"></a>  ..@ timing              : 'difftime' Named num [1:3] 0.911350965499878 38.2014191150665 39.1175811290741</span>
+<span id="cb10-108"><a href="#cb10-108"></a>  ..@ timing              : 'difftime' Named num [1:3] 0.906970977783203 45.3122351169586 46.2239580154419</span>
 <span id="cb10-109"><a href="#cb10-109"></a>  .. ..- attr(*, "names")= chr [1:3] "time_optimization" "time_sdreport" "time_total"</span>
 <span id="cb10-110"><a href="#cb10-110"></a>  .. ..- attr(*, "units")= Named chr "secs"</span>
 <span id="cb10-111"><a href="#cb10-111"></a>  .. .. ..- attr(*, "names")= chr "time_optimization"</span>

diff --git a/content/SWFSC-sardine.html b/content/SWFSC-sardine.html
@@ -570,7 +570,7 @@ pre > code.sourceCode > span > a:first-child::before { text-decoration: underlin
 ✔ Finished optimization
 ✔ Finished sdreport
 ℹ FIMS model version: 0.3.0.1
-ℹ Total run time was 0.09699 seconds
+ℹ Total run time was 0.10239 seconds
 ℹ Number of parameters: total=47, fixed_effects=47, and random_effects=0
 ℹ Maximum gradient= 0.00016
 ℹ Negative log likelihood (NLL):
@@ -585,7 +585,7 @@ pre > code.sourceCode > span > a:first-child::before { text-decoration: underlin
 <span id="cb5-3"><a href="#cb5-3" aria-hidden="true" tabindex="-1"></a><span class="fu">substr</span>(recruitment_log, <span class="dv">1</span>, <span class="dv">100</span>)</span></code><button title="Copy to Clipboard" class="code-copy-button"><i class="bi"></i></button></pre></div>
 </details>
 <div class="cell-output cell-output-stdout">
-<pre><code>[1] "[\n{\n\"timestamp\" : \"Wed Feb 19 22:36:16 2025\",\n\"level\" : \"info\",\n\"message\" : \"Initializing fleet 1\",\n"</code></pre>
+<pre><code>[1] "[\n{\n\"timestamp\" : \"Thu Feb 20 19:02:56 2025\",\n\"level\" : \"info\",\n\"message\" : \"Initializing fleet 1\",\n"</code></pre>
 </div>
 <details class="code-fold">
 <summary>Code</summary>

diff --git a/content/pacific-hake.html b/content/pacific-hake.html
@@ -588,7 +588,7 @@ end_year:
 ✔ Finished optimization
 ✔ Finished sdreport
 ℹ FIMS model version: 0.3.0.1
-ℹ Total run time was 3.04286 seconds
+ℹ Total run time was 3.09748 seconds
 ℹ Number of parameters: total=134, fixed_effects=134, and random_effects=0
 ℹ Maximum gradient= 0.06327
 ℹ Negative log likelihood (NLL):
